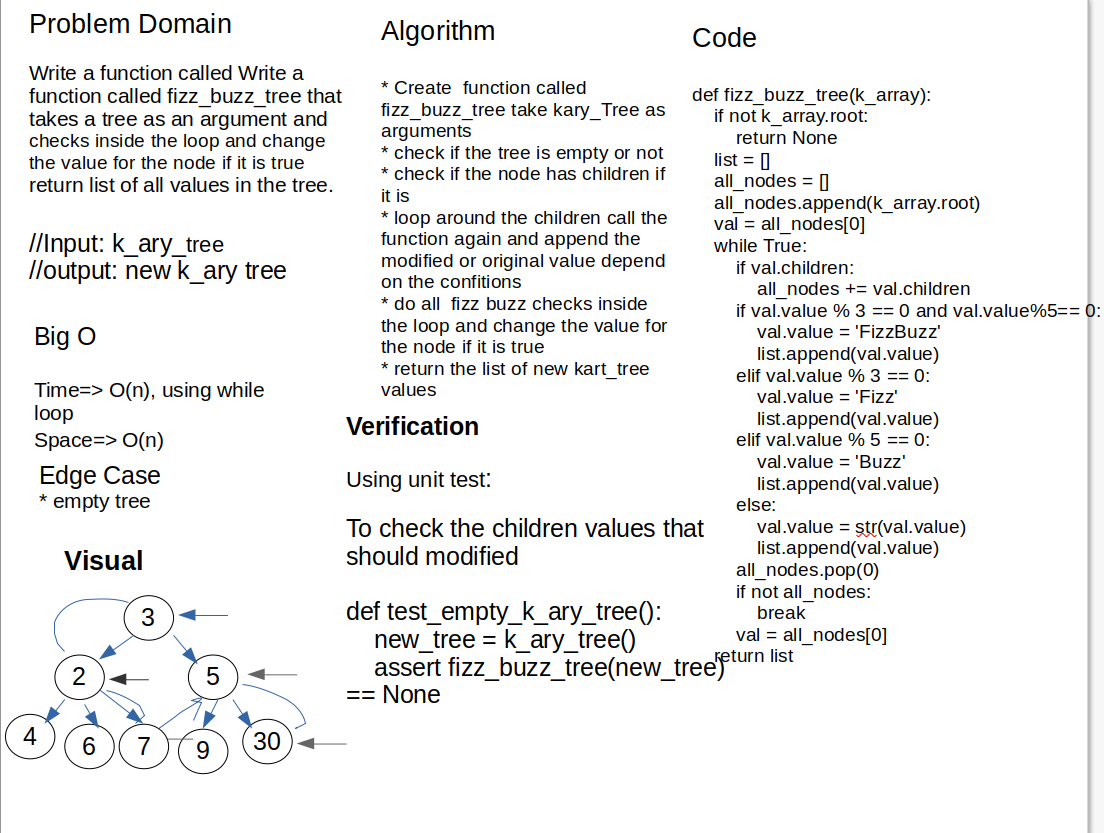
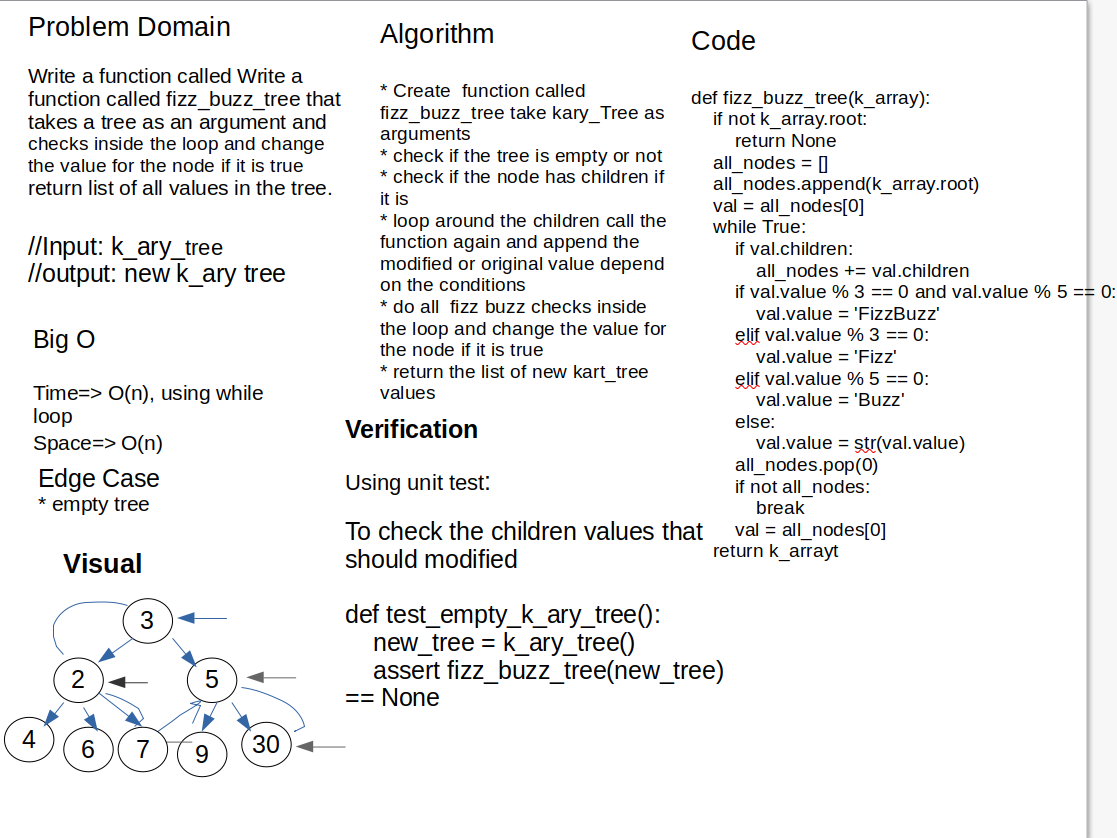
edit the tree-fizz-buzz

diff --git a/python/challenges/tree_fizz_buzz/tree_fizz_buzz.py b/python/challenges/tree_fizz_buzz/tree_fizz_buzz.py
@@ -10,7 +10,6 @@ class k_ary_tree:
 def fizz_buzz_tree(k_array):
     if not k_array.root:
         return None
-    list = []
     all_nodes = []
     all_nodes.append(k_array.root)
     val = all_nodes[0]
@@ -19,21 +18,17 @@ def fizz_buzz_tree(k_array):
             all_nodes += val.children
         if val.value % 3 == 0 and val.value % 5 == 0:
             val.value = 'FizzBuzz'
-            list.append(val.value)
         elif val.value % 3 == 0:
             val.value = 'Fizz'
-            list.append(val.value)
         elif val.value % 5 == 0:
             val.value = 'Buzz'
-            list.append(val.value)
         else:
             val.value = str(val.value)
-            list.append(val.value)
         all_nodes.pop(0)
         if not all_nodes:
             break
         val = all_nodes[0]
-    return list
+    return k_array
 
 
 
@@ -48,4 +43,5 @@ if __name__ == "__main__":
     tree.root.children[0].children.append(Node(7))
     tree.root.children[1].children.append(Node(9))
     tree.root.children[1].children.append(Node(30))
-    print(fizz_buzz_tree(tree))
+    k_arr = fizz_buzz_tree(tree)
+    print(k_arr.root.value)

diff --git a/python/tests/test_tree_fizz_buzz.py b/python/tests/test_tree_fizz_buzz.py
@@ -10,8 +10,8 @@ def test_empty_k_ary_tree():
 def test_filled_fizz_buzz_tree(k_arr):
     tree = fizz_buzz_tree(k_arr)
     # for the new tree
-    assert tree[0] == 'Fizz'
-    assert tree[-1] == 'FizzBuzz'
+    assert tree.root.value == 'Fizz'
+    assert tree.root.children[1].children[1].value == 'FizzBuzz'
 
 
 @pytest.fixture

diff --git a/python/challenges/tree_fizz_buzz/README.md b/python/challenges/tree_fizz_buzz/README.md
@@ -36,7 +36,6 @@ Determine whether or not the value of each node is divisible by 3, 5 or both. Cr
 def fizz_buzz_tree(k_array):
     if not k_array.root:
         return None
-    list = []
     all_nodes = []
     all_nodes.append(k_array.root)
     val = all_nodes[0]
@@ -45,20 +44,15 @@ def fizz_buzz_tree(k_array):
             all_nodes += val.children
         if val.value % 3 == 0 and val.value % 5 == 0:
             val.value = 'FizzBuzz'
-            list.append(val.value)
         elif val.value % 3 == 0:
             val.value = 'Fizz'
-            list.append(val.value)
         elif val.value % 5 == 0:
             val.value = 'Buzz'
-            list.append(val.value)
         else:
             val.value = str(val.value)
-            list.append(val.value)
         all_nodes.pop(0)
         if not all_nodes:
             break
         val = all_nodes[0]
-    return list
-
+    return k_array
 ```
